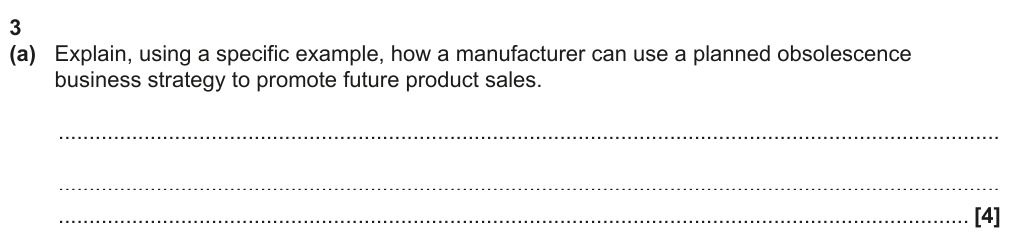
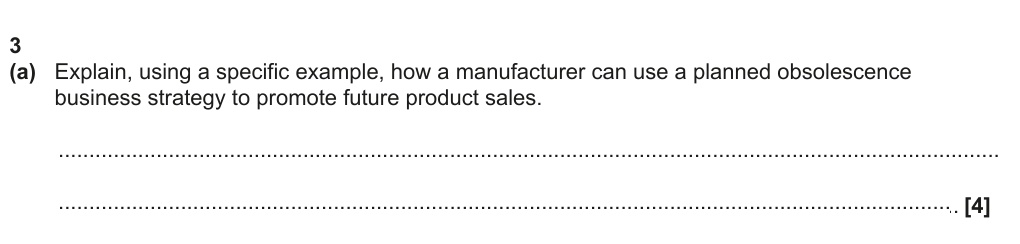
Fix question crops (2019, 2020, 2022, 2024), ensure prompts and mark badges are visible with no bleed, and add cache busting to question/figure assets

diff --git a/index.html b/index.html
@@ -2533,6 +2533,8 @@ footer {
 const $ = s => document.querySelector(s);
 const $$ = s => document.querySelectorAll(s);
 const esc = s => String(s || '').replace(/[&<>"]/g, c => ({'&':'&amp;','<':'&lt;','>':'&gt;','"':'&quot;'}[c]));
+const IMG_VERSION = 'v=20261122b';
+const imgSrc = url => (!url ? '' : (url.includes('?') ? url : `${url}?${IMG_VERSION}`));
 
 /* ========================================================
    Password Gate (Supported: engineering)
@@ -3210,7 +3212,7 @@ async function executePrintQuestions(questions, options = {}) {
       figHtml = q.figures.map(f => `
         <div class="print-pack-img-block">
           <div class="print-pack-fig-label">Resource Figure: ${esc(figLabel ? figLabel(f) : f)}</div>
-          <img src="${esc(f)}" alt="${esc(figLabel ? figLabel(f) : 'Figure')}">
+          <img src="${esc(imgSrc(f))}" alt="${esc(figLabel ? figLabel(f) : 'Figure')}">
         </div>
       `).join('');
     }
@@ -3221,7 +3223,7 @@ async function executePrintQuestions(questions, options = {}) {
         <div class="print-pack-ms-block">
           <div class="print-pack-fig-label" style="color:#b91c1c">Official OCR Mark Scheme — Question ${esc(q.question)}:</div>
           <div class="print-pack-img-block">
-            <img src="${esc(q.markscheme)}" alt="Mark Scheme Question ${esc(q.question)}">
+            <img src="${esc(imgSrc(q.markscheme))}" alt="Mark Scheme Question ${esc(q.question)}">
           </div>
         </div>
       `;
@@ -3236,7 +3238,7 @@ async function executePrintQuestions(questions, options = {}) {
 
     let qImg = q.image ? `
       <div class="print-pack-img-block">
-        <img src="${esc(q.image)}" alt="Question ${esc(q.question)}">
+        <img src="${esc(imgSrc(q.image))}" alt="Question ${esc(q.question)}">
       </div>
     ` : `
       <div style="padding:12px;font-size:10pt;line-height:1.5">
@@ -3342,7 +3344,7 @@ function renderCard(x) {
 
       ${x.image ? `
         <div class="img-container">
-          <img loading="lazy" src="${esc(x.image)}" alt="Question ${esc(x.question)}" onclick="openModal('${x.id}', 'question')">
+          <img loading="lazy" src="${esc(imgSrc(x.image))}" alt="Question ${esc(x.question)}" onclick="openModal('${x.id}', 'question')">
         </div>
       ` : (x.prompt ? `
         <div class="q-prompt-box">
@@ -3355,7 +3357,7 @@ function renderCard(x) {
           <summary>${figLabel(f)}</summary>
           <div class="details-body">
             <div class="img-container">
-              <img loading="lazy" src="${esc(f)}" alt="${figLabel(f)}" onclick="openModal('${x.id}', 'figure', ${fi})">
+              <img loading="lazy" src="${esc(imgSrc(f))}" alt="${figLabel(f)}" onclick="openModal('${x.id}', 'figure', ${fi})">
             </div>
           </div>
         </details>
@@ -3366,7 +3368,7 @@ function renderCard(x) {
           <summary>Mark scheme</summary>
           <div class="details-body">
             <div class="img-container">
-              <img loading="lazy" src="${esc(x.markscheme)}" alt="Mark Scheme" onclick="openModal('${x.id}', 'markscheme')">
+              <img loading="lazy" src="${esc(imgSrc(x.markscheme))}" alt="Mark Scheme" onclick="openModal('${x.id}', 'markscheme')">
             </div>
           </div>
         </details>
@@ -3825,7 +3827,7 @@ function renderModalContent() {
   const body = $('#modal-body');
 
   if (activeModalTab === 'question') {
-    body.innerHTML = q.image ? `<img src="${esc(q.image)}" alt="Question ${esc(q.question)}">` : `
+    body.innerHTML = q.image ? `<img src="${esc(imgSrc(q.image))}" alt="Question ${esc(q.question)}">` : `
       <div style="background:var(--surface);padding:30px;border-radius:var(--radius);max-width:800px;line-height:1.6">
         <h3>Question ${esc(q.question)} (${q.marks} marks)</h3>
         <p>${q.prompt || esc(q.summary)}</p>
@@ -3833,10 +3835,10 @@ function renderModalContent() {
   } else if (activeModalTab === 'figures') {
     body.innerHTML = `
       <div style="display:flex;flex-direction:column;gap:16px;align-items:center">
-        ${(q.figures || []).map(f => `<img src="${esc(f)}" alt="${figLabel(f)}">`).join('')}
+        ${(q.figures || []).map(f => `<img src="${esc(imgSrc(f))}" alt="${figLabel(f)}">`).join('')}
       </div>`;
   } else if (activeModalTab === 'markscheme') {
-    body.innerHTML = q.markscheme ? `<img src="${esc(q.markscheme)}" alt="Mark Scheme">` : `
+    body.innerHTML = q.markscheme ? `<img src="${esc(imgSrc(q.markscheme))}" alt="Mark Scheme">` : `
       <div style="background:var(--surface);padding:30px;border-radius:var(--radius);max-width:800px;line-height:1.6">
         <h3>Official Mark Scheme · Question ${esc(q.question)}</h3>
         <p>${q.markscheme_text || 'Mark scheme available in syllabus reference.'}</p>
@@ -3847,14 +3849,14 @@ function renderModalContent() {
         <div class="split-pane">
           <div class="split-pane-head">Question & Resource</div>
           <div class="split-pane-body">
-            ${q.image ? `<img src="${esc(q.image)}" alt="Question">` : (q.prompt ? `<div style="line-height:1.6">${q.prompt}</div>` : '')}
-            ${(q.figures || []).map(f => `<img src="${esc(f)}" alt="${figLabel(f)}">`).join('')}
+            ${q.image ? `<img src="${esc(imgSrc(q.image))}" alt="Question">` : (q.prompt ? `<div style="line-height:1.6">${q.prompt}</div>` : '')}
+            ${(q.figures || []).map(f => `<img src="${esc(imgSrc(f))}" alt="${figLabel(f)}">`).join('')}
           </div>
         </div>
         <div class="split-pane">
           <div class="split-pane-head">Mark Scheme</div>
           <div class="split-pane-body">
-            ${q.markscheme ? `<img src="${esc(q.markscheme)}" alt="Mark Scheme">` : ''}
+            ${q.markscheme ? `<img src="${esc(imgSrc(q.markscheme))}" alt="Mark Scheme">` : ''}
             ${!q.markscheme && q.markscheme_text ? `<div style="line-height:1.6">${q.markscheme_text}</div>` : ''}
           </div>
         </div>
@@ -7296,7 +7298,7 @@ function renderWorksheetGenerator() {
               </div>
 
               <div class="ws-q-body">
-                ${q.image ? `<img src="${esc(q.image)}" alt="Question ${esc(q.question)}" style="max-width:100%;border-radius:4px;border:1px solid var(--border)">` : ''}
+                ${q.image ? `<img src="${esc(imgSrc(q.image))}" alt="Question ${esc(q.question)}" style="max-width:100%;border-radius:4px;border:1px solid var(--border)">` : ''}
                 ${q.prompt ? `<div class="ws-q-prompt-box" style="font-size:0.9rem;line-height:1.6;margin-top:8px;padding:12px;background:var(--surface-hover);border-radius:var(--radius);border:1px solid var(--border)">${q.prompt}</div>` : ''}
               </div>
 
@@ -7452,7 +7454,7 @@ async function executePrintWorksheet(options = {}) {
       let figHtml = (q.figures || []).map(f => `
         <div class="print-pack-img-block">
           <div class="print-pack-fig-label">Resource Figure: ${esc(figLabel ? figLabel(f) : f)}</div>
-          <img src="${esc(f)}" alt="Figure">
+          <img src="${esc(imgSrc(f))}" alt="Figure">
         </div>
       `).join('');
 
@@ -7466,14 +7468,14 @@ async function executePrintWorksheet(options = {}) {
         msBlock = `
           <div class="print-pack-ms-block" style="margin-top:12pt;padding:8pt 12pt;background:#f0fdf4;border:1pt solid #bbf7d0;border-radius:4pt">
             <div class="print-pack-ms-title" style="font-weight:bold;color:#15803d;margin-bottom:4pt">Official Mark Scheme — Question ${esc(q.question)} (${q.marks}m)</div>
-            ${q.markscheme ? `<div class="print-pack-img-block"><img src="${esc(q.markscheme)}" alt="Mark scheme"></div>` : ''}
+            ${q.markscheme ? `<div class="print-pack-img-block"><img src="${esc(imgSrc(q.markscheme))}" alt="Mark scheme"></div>` : ''}
             ${q.markscheme_text ? `<div class="print-pack-ms-text" style="font-size:9.5pt;line-height:1.5">${q.markscheme_text}</div>` : ''}
           </div>
         `;
       }
 
       const contentHtml = q.image
-        ? `<div class="print-pack-img-block"><img src="${esc(q.image)}" alt="Question ${esc(q.question)}"></div>`
+        ? `<div class="print-pack-img-block"><img src="${esc(imgSrc(q.image))}" alt="Question ${esc(q.question)}"></div>`
         : `<div class="print-pack-prompt-text" style="font-size:10.5pt;line-height:1.6;margin:6pt 0">${q.prompt || q.summary}</div>`;
 
       return `
